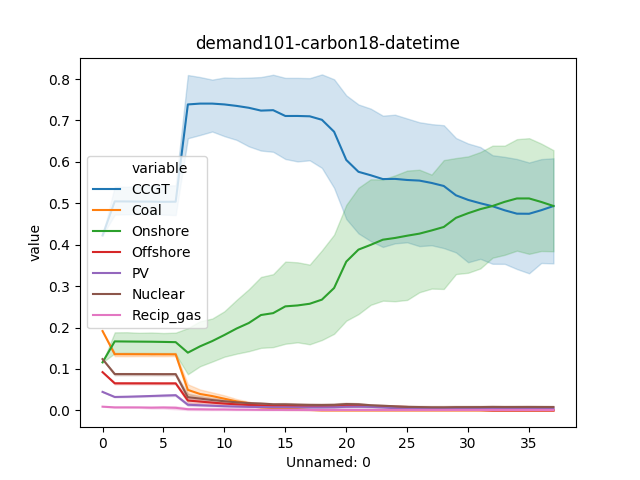
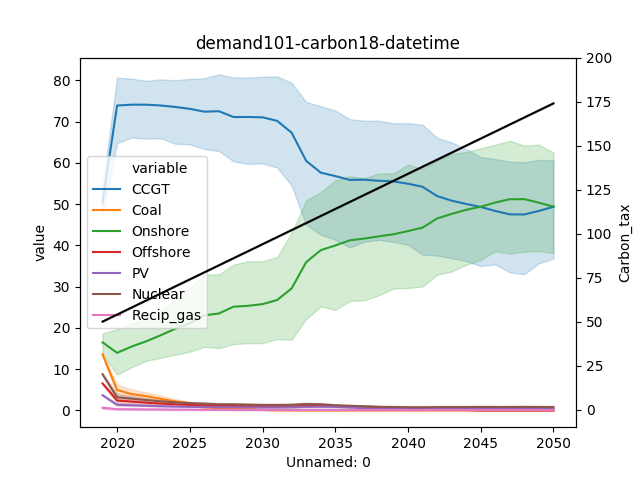
adjusted scenario plots

diff --git a/run/batchrunners/scenarios/graph_plotter.py b/run/batchrunners/scenarios/graph_plotter.py
@@ -52,32 +52,61 @@ def variance_plots(folder, folder_to_save):
 
         scenario_results = pd.read_csv(file_name,dtype=np.float64, index_col=None, header=0)
         scenario = file_name.split("_")[0]+file_name.split("_")[1]+file_name.split("_")[2]
+        scenario_results['Unnamed: 0'] += 2013
+        scenario_results = scenario_results.iloc[6:]
         scenario_results['scenario'] = [scenario]*len(scenario_results)
         scenario_results['total'] = scenario_results.iloc[:,1:8].sum(axis=1)
-        scenario_results.iloc[:,1:8] = scenario_results.iloc[:,1:8].div(scenario_results.total, axis=0)
+        scenario_results.iloc[:,1:8] = scenario_results.iloc[:,1:8].div(scenario_results.total/100, axis=0)
 
         # print(scenario_results)
         all_data.append(scenario_results)
     frame = pd.concat(all_data, axis=0, ignore_index=True)
-    frame_long = pd.melt(frame, id_vars=['Unnamed: 0','scenario','Carbon_tax'], value_vars=['CCGT', 'Coal', 'Onshore', 'Offshore', 'PV', 'Nuclear','Recip_gas'])
-
+    frame_long = pd.melt(frame, id_vars=['Unnamed: 0','scenario','Carbon_tax'],value_vars=['CCGT', 'Coal', 'Onshore', 'Offshore', 'PV', 'Nuclear','Recip_gas'])
+    frame_long = frame_long.rename(index=str, columns={'variable':"Variables"})
     scenario_group = frame_long.groupby('scenario')
 
     directory = '{}/run/batchrunners/scenarios/figures/{}'.format(ROOT_DIR, folder_to_save)
-    if not os.path.exists(directory):
-        os.makedirs(directory)
+    if_no_directory_create(directory)
+
+    publishable = '{}/run/batchrunners/scenarios/figures/to_publish/{}'.format(ROOT_DIR, folder_to_save)
+    if_no_directory_create(directory)
+
+    # for name, group in scenario_group:
+    #     plot = sns.lineplot(x="Unnamed: 0", y="value", hue='variable', data=group).set_title(name)
+    #     ax2 = plt.twinx()
+    #     sns.lineplot(x="Unnamed: 0", y="Carbon_tax", data=group, color="black", ax=ax2)
+    #     ax2.set_ylim(-10,200)
+    #     figure = plot.get_figure()
+    #
+    #
+    #     print("Saving figure: {}".format(name))
+    #     figure.savefig('{}/{}.png'.format(directory,name))
+    #     plt.close('all')
 
     for name, group in scenario_group:
-        plot = sns.lineplot(x="Unnamed: 0", y="value", hue='variable', data=group).set_title(name)
-        # ax2 = plt.twinx()
-        # sns.lineplot(x="Unnamed: 0", y="Carbon_tax", data=group, color="black", ax=ax2,size=40)
-        # ax2.set_ylim(-10,200)
-        figure = plot.get_figure()
+        plot = sns.lineplot(x="Unnamed: 0", y="value", hue='Variables', data=group)
+        plt.xlabel('Year')
+        plt.ylabel('Share of Energy Mix (%)')
+        ax2 = plt.twinx()
+        sns.lineplot(x="Unnamed: 0", y="Carbon_tax", data=group, color="black", ax=ax2, linewidth=3, label="Carbon Price")
+        ax2.set_ylim(-10,200)
+        ax2.set_ylabel("Carbon Tax (£/tonne)")
 
 
+
+        h1, l1 = plot.get_legend_handles_labels()
+        h2, l2 = ax2.get_legend_handles_labels()
+        plot.legend(h1+h2, l1+l2, loc=2)
+        ax2.get_legend().remove()
+        # plt.show()
         print("Saving figure: {}".format(name))
-        figure.savefig('{}/{}.png'.format(directory,name))
+        figure = plot.get_figure()
+        figure.savefig('{}/{}.png'.format(publishable,name))
         plt.close('all')
+
+
+
+
 
 
     # print(frame_long.head())
@@ -93,9 +122,12 @@ def variance_plots(folder, folder_to_save):
        #
 
 
+def if_no_directory_create(directory):
+    if not os.path.exists(directory):
+        os.makedirs(directory)
+
 
 if __name__ == '__main__':
     # single_plots("fourth_run_8_iterations_lower_taxes_no_max_investment_2018", "fourth_run_8_iterations_lower_taxes_no_max_investment_2018")
-    # variance_plots('fourth_run_8_iterations_lower_taxes_no_max_investment_2018','first_variance_results')
-    variance_plots('5th_run_testing_2013_start','2013_start_variance_results')
+    variance_plots('fourth_run_8_iterations_lower_taxes_no_max_investment_2018','first_variance_results')
 
